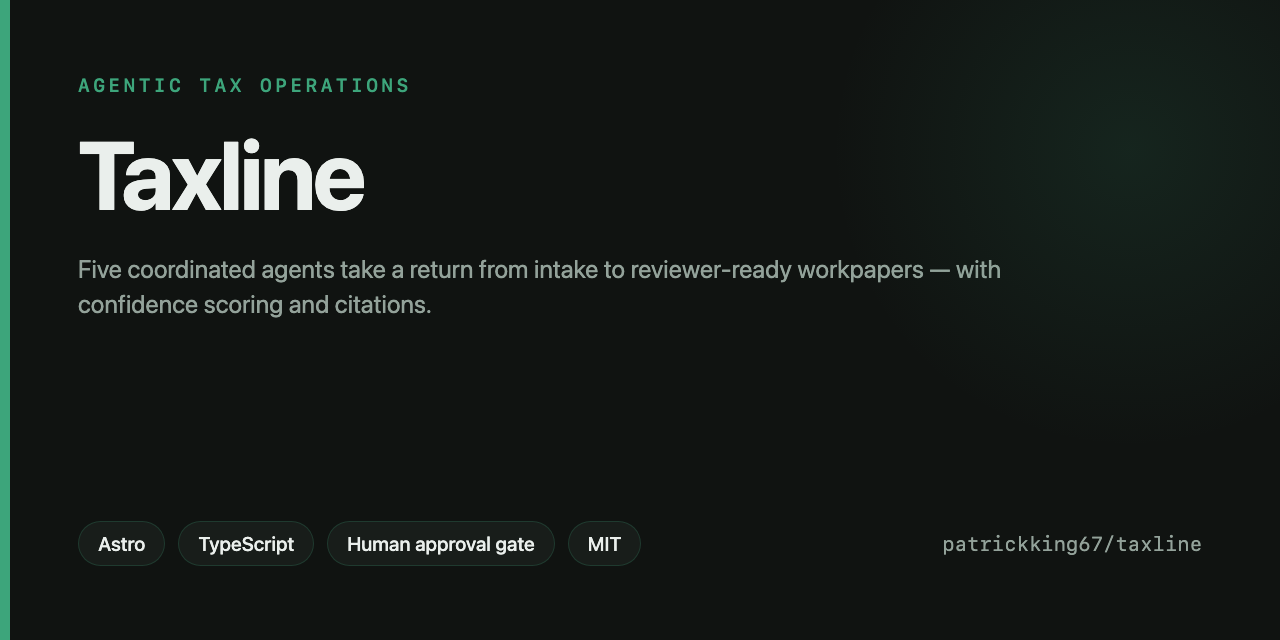
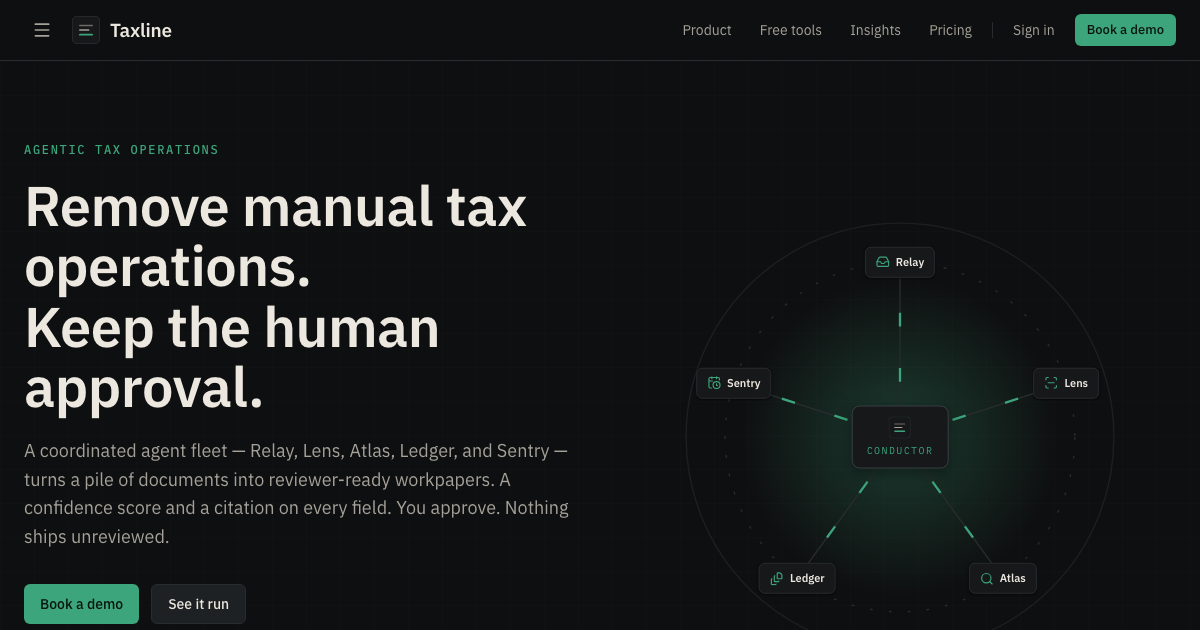
feat(site): present the quantitative engine with the generated rate chart
The home page gains a section on the second engine: what the parity
test covers, the rate chart drawn by the Python report script (imported
from docs/quant at build time), and links to the report and source. The
footer links the source, the architecture notes, and the author.

The Open Graph image is now 1200x630, captured from the real hero by
scripts/capture-screenshots.mjs. E2E_PORT moves the Playwright server
when 4173 is taken. Two e2e tests cover the section and the card.

diff --git a/site/e2e/pages.spec.ts b/site/e2e/pages.spec.ts
@@ -100,3 +100,36 @@ test('every internal link on every page resolves', async ({ page }) => {
   expect(links.size).toBeGreaterThan(20);
   expect(broken, broken.join('\n')).toEqual([]);
 });
+
+test('the home page shows the generated rate chart and links to the report', async ({ page }) => {
+  await page.goto('./');
+  const section = page.locator('#quant');
+  await expect(section.getByRole('heading', { level: 2 })).toHaveText(
+    'A second engine checks the first.',
+  );
+  const chart = section.locator('figure img');
+  await chart.scrollIntoViewIfNeeded();
+  await expect(chart).toHaveAttribute('alt', /marginal rate/i);
+  await expect
+    .poll(() => chart.evaluate((img: HTMLImageElement) => img.complete && img.naturalWidth))
+    .toBeGreaterThan(0);
+  await expect(section.getByRole('link', { name: /generated report/i })).toHaveAttribute(
+    'href',
+    'https://github.com/patrickking67/taxline/blob/main/docs/quant/report.md',
+  );
+  await expect(section).toContainText('not tax advice');
+});
+
+test('the social card is 1200 by 630 and referenced absolutely', async ({ page }) => {
+  await page.goto('./');
+  const og = await page.locator('meta[property="og:image"]').getAttribute('content');
+  expect(og).toMatch(/^https:\/\/.+\/social-preview\.png$/);
+  expect(await page.locator('meta[name="twitter:image"]').getAttribute('content')).toBe(og);
+  const size = await page.evaluate(async () => {
+    const img = new Image();
+    img.src = new URL('social-preview.png', document.baseURI).href;
+    await img.decode();
+    return [img.naturalWidth, img.naturalHeight];
+  });
+  expect(size).toEqual([1200, 630]);
+});

diff --git a/site/playwright.config.ts b/site/playwright.config.ts
@@ -2,7 +2,8 @@ import { defineConfig, devices } from '@playwright/test';
 
 // End-to-end tests run against the production build, served under the same
 // base path GitHub Pages uses, so base-path and asset bugs surface here.
-const PORT = 4173;
+// E2E_PORT moves the server when 4173 is taken by something else.
+const PORT = Number(process.env.E2E_PORT ?? 4173);
 const BASE = '/taxline';
 
 export default defineConfig({

diff --git a/eslint.config.js b/eslint.config.js
@@ -52,7 +52,7 @@ export default [
   },
   {
     // Playwright specs, config, and the dist server run in Node.
-    files: ['site/e2e/**', 'site/playwright.config.ts'],
+    files: ['site/e2e/**', 'site/playwright.config.ts', 'scripts/capture-screenshots.mjs'],
     languageOptions: { globals: { ...globals.node, ...globals.browser } },
     rules: { 'no-console': 'off' },
   },
